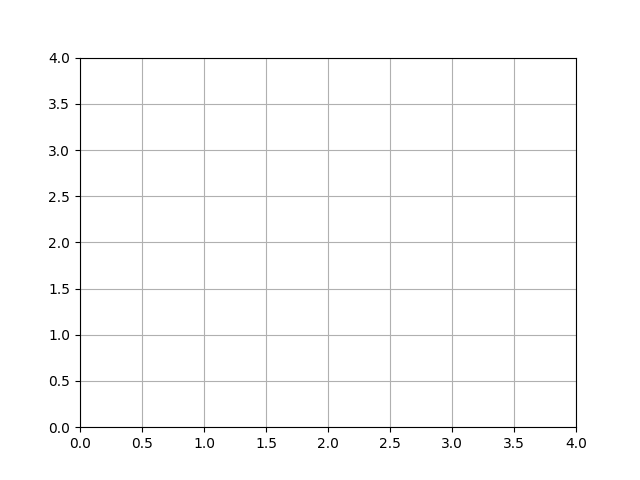
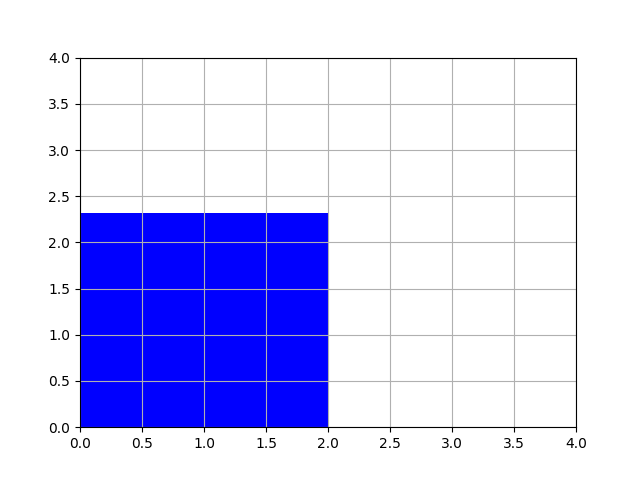
Can add rectangles

Changed region(s): [[0.125, 0.4375, 0.5312, 0.9062]]

diff --git a/code/visualization/visualize.py b/code/visualization/visualize.py
@@ -1,14 +1,19 @@
 import matplotlib.pyplot as plt
 
 def visualize(width, depth):
-    
-    x_max = width
-    y_max = depth
-    w = range(x_max)
-    d = range(y_max)
+
+    w = range(width)
+    d = range(depth)
 
     plt.plot([w], [d])  
-    plt.xlim([0, x_max])
-    plt.ylim([0, y_max])
+    
+    # how start from bottom left corner from https://stackoverflow.com/questions/44395838/how-to-make-0-0-on-matplotlib-graph-on-the-bottom-left-corner
+    plt.xlim([0, width])
+    plt.ylim([0, depth])
+    
     plt.grid(True)
+
+    # how to draw rectangle in diagram from https://www.codespeedy.com/how-to-draw-shapes-in-matplotlib-with-python/
+    house = plt.Rectangle((0, 0), 2, 2.32, fc="blue")
+    plt.gca().add_patch(house)
     plt.savefig('visualization.png')
